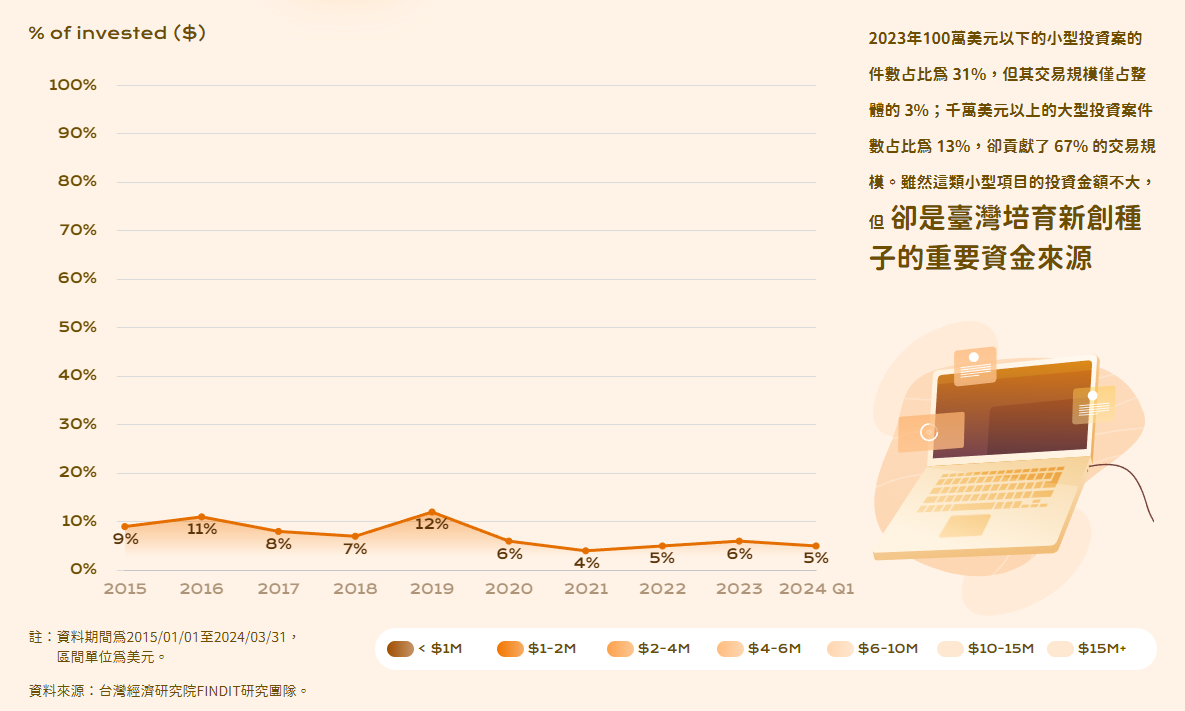
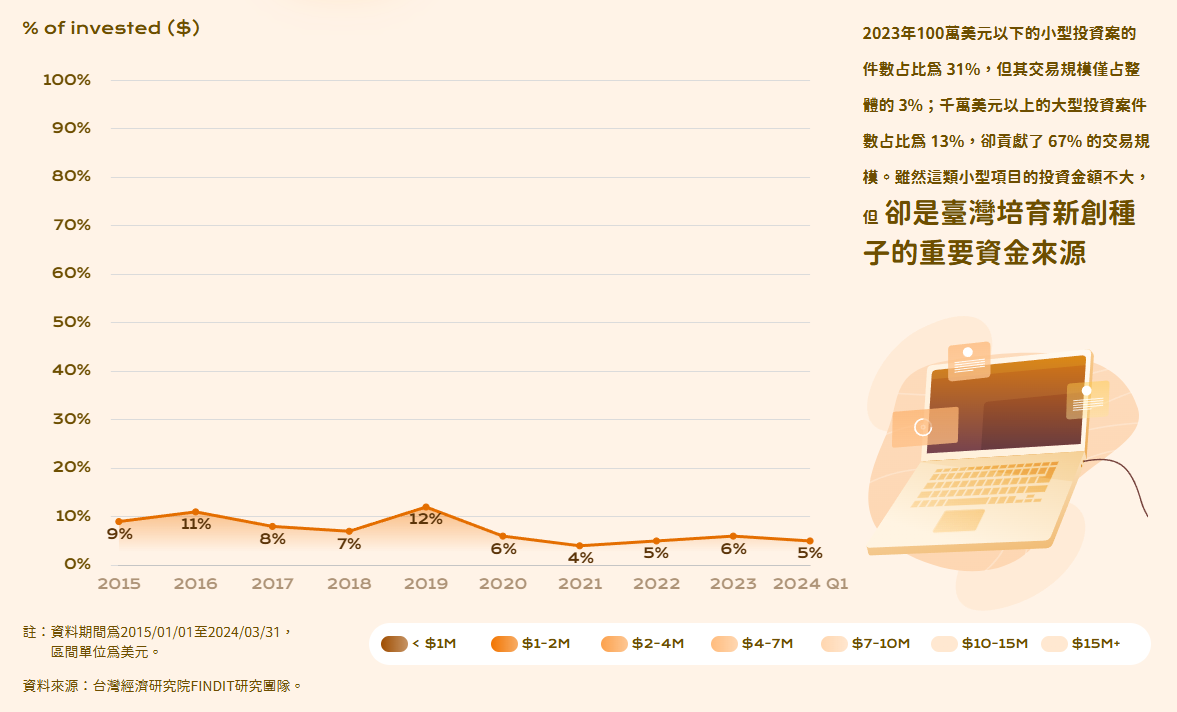
update | 20241029 change chart data, fix bug, update download image

diff --git a/index.html b/index.html
@@ -721,7 +721,7 @@
                   class="text-base font-bold tablet:text-xl"
                   >2022年的平均規模仍高於2020年以前的水準</span
                 > -->
-                2023年平均交易金額未出現增長，雖然較2022年減少2.02%，但仍遠高於2021年水準，減少主要是來自於<span class="text-base font-bold tablet:text-xl"
+                2023年平均交易金額未出現增長，雖然較2022年減少2.02%，但仍遠高於2020年水準，減少主要是來自於<span class="text-base font-bold tablet:text-xl"
                 >中型投資項目的占比增加</span>所致
               </p>
             </div>
@@ -742,7 +742,7 @@
                   >186萬美元</span
                 > -->
                 
-                2023年交易金額中位數為170萬美元，較2022年減少6.08%，但仍遠高於2021年水準。<span class="text-base font-bold tablet:text-xl"
+                2023年交易金額中位數為170萬美元，較2022年減少6.08%，但仍遠高於2020年水準。<span class="text-base font-bold tablet:text-xl"
                 >2024年第一季400萬至1,500萬美元的交易案件數占比增長</span>，進一步導致中位數交易金額上升至245萬美元
 
                 <!-- 2023年交易金額中位數為170萬美元，較2022年減少6.08%，但仍遠高於2021年水準。2024年第一季400萬至1,500萬美元的交易案件數占比增長，進一步導致中位數交易金額上升至245萬美元 -->
@@ -1096,8 +1096,8 @@
                   <button class="dropdown-item">&lt;$1M</button>
                   <button class="dropdown-item">$1-2M</button>
                   <button class="dropdown-item">$2-4M</button>
-                  <button class="dropdown-item">$4-6M</button>
-                  <button class="dropdown-item">$6-10M</button>
+                  <button class="dropdown-item">$4-7M</button>
+                  <button class="dropdown-item">$7-10M</button>
                   <button class="dropdown-item">$10-15M</button>
                   <button class="dropdown-item">$15M+</button>
                 </div>
@@ -1111,8 +1111,8 @@
                 <button>&lt;$1M</button>
                 <button>$1-2M</button>
                 <button>$2-4M</button>
-                <button>$4-6M</button>
-                <button>$6-10M</button>
+                <button>$4-7M</button>
+                <button>$7-10M</button>
                 <button>$10-15M</button>
                 <button>$15M+</button>
               </div>
@@ -1201,7 +1201,7 @@
                   ></div>
                   <span
                     class="w-max tablet:text-xs tablet:scale-100 desktop:text-xs"
-                    >$4-6M</span
+                    >$4-7M</span
                   >
                 </div>
                 <div class="flex items-center gap-1">
@@ -1210,7 +1210,7 @@
                   ></div>
                   <span
                     class="w-max tablet:text-xs tablet:scale-100 desktop:text-xs"
-                    >$6-10M</span
+                    >$7-10M</span
                   >
                 </div>
                 <div class="flex items-center gap-1">
@@ -2170,10 +2170,10 @@
             </strong>
 
             <div
-              class="grid tablet:grid-cols-2 desktop:grid-cols-4 mt-5 text-center gap-3"
+              class="grid tablet:grid-cols-2 desktop:grid-cols-3 mt-5 text-center gap-3"
             >
-              <div class="bg-[#FFD6B0A3] rounded-xl py-2">2305件 (63.9%)</div>
-              <div class="bg-[#FFD6B0A3] rounded-xl py-2">81億美元</div>
+              <div class="bg-[#FFD6B0A3] rounded-xl py-2">2,305件 (63.9%)</div>
+              <!-- <div class="bg-[#FFD6B0A3] rounded-xl py-2">81億美元</div> -->
               <div class="bg-[#FFD6B0A3] rounded-xl py-2">
                 平均交易金額481萬美元
               </div>
@@ -2335,10 +2335,10 @@
             </strong>
 
             <div
-              class="grid tablet:grid-cols-2 desktop:grid-cols-4 mt-5 text-center gap-3"
+              class="grid tablet:grid-cols-2 desktop:grid-cols-3 mt-5 text-center gap-3"
             >
-              <div class="bg-[#FFD6B0A3] rounded-xl py-2">1206件 (35%)</div>
-              <div class="bg-[#FFD6B0A3] rounded-xl py-2">57.5億美元</div>
+              <div class="bg-[#FFD6B0A3] rounded-xl py-2">1,260件 (35.0%)</div>
+              <!-- <div class="bg-[#FFD6B0A3] rounded-xl py-2">57.5億美元</div> -->
               <div class="bg-[#FFD6B0A3] rounded-xl py-2">
                 平均交易金額629萬美元
               </div>
@@ -2500,10 +2500,10 @@
             </strong>
 
             <div
-              class="grid tablet:grid-cols-2 desktop:grid-cols-4 mt-5 text-center gap-3"
+              class="grid tablet:grid-cols-2 desktop:grid-cols-3 mt-5 text-center gap-3"
             >
               <div class="bg-[#FFD6B0A3] rounded-xl py-2">476件 (13.2%)</div>
-              <div class="bg-[#FFD6B0A3] rounded-xl py-2">11.3億美元</div>
+              <!-- <div class="bg-[#FFD6B0A3] rounded-xl py-2">11.3億美元</div> -->
               <div class="bg-[#FFD6B0A3] rounded-xl py-2">
                 平均交易金額289萬美元
               </div>
@@ -2667,10 +2667,10 @@
             </strong>
 
             <div
-              class="grid tablet:grid-cols-2 desktop:grid-cols-4 mt-5 text-center gap-3"
+              class="grid tablet:grid-cols-2 desktop:grid-cols-3 mt-5 text-center gap-3"
             >
-              <div class="bg-[#FFD6B0A3] rounded-xl py-2">396件 (11%)</div>
-              <div class="bg-[#FFD6B0A3] rounded-xl py-2">37.2億美元</div>
+              <div class="bg-[#FFD6B0A3] rounded-xl py-2">396件 (11.0%)</div>
+              <!-- <div class="bg-[#FFD6B0A3] rounded-xl py-2">37.2億美元</div> -->
               <div class="bg-[#FFD6B0A3] rounded-xl py-2">
                 平均交易金額1,307萬美元
               </div>

diff --git a/src/js/chart/chart07_05.js b/src/js/chart/chart07_05.js
@@ -15,12 +15,12 @@ export default () =>
                 {
                     axis: "y",
                     label: 'Amount($M USD)',
-                    data: [276, 610, 491, 240].map((x) => x * (80 / 5) / 100),
+                    data: [276, 610, 491, 240].map((x) => x / 10),
                     backgroundColor: orangeGradient(ctx),
                     datalabels: {
                         color: '#6D4E00',
                         formatter: (value) => {
-                            return formatNumber(value / (80 / 5) * 100, {rounding: true})
+                            return formatNumber(value * 10, {rounding: true})
                         }
                     },
                 },
@@ -57,14 +57,24 @@ export default () =>
                     ticks: {
                         callback: function (value) {
                             if (Math.sign(value) > 0) {
-                                return formatNumber((value / (80 / 4) * 100))
+                                return value * 10
                             }
                             return Math.abs(value)
                         },
                     },
                     min: -80,
-                    max: 100,
+                    max: 80,
                     stacked: true,
+                    afterBuildTicks: (axis) => {
+                        // axis.ticks = [
+                            // { value: -500, label: '500' },
+                            // { value: -250, label: '250' },
+                            // { value: 0, label: '0' },
+                            // { value: 200, label: '1250' },
+                            // { value: 400, label: '2500' },
+                            // { value: 600, label: '3750' },
+                        // ];
+                    }
                 },
                 y: {
                     ticks: {

diff --git a/src/js/chart/chart07_02.js b/src/js/chart/chart07_02.js
@@ -29,7 +29,8 @@ export default () =>
                     backgroundColor: blueGradient(ctx),
                     datalabels: {
                         color: '#fff',
-                        formatter: Math.abs
+                        // formatter: Math.abs
+                        formatter: (value) => Math.abs(value)
                     },
                 }
             ],
@@ -52,15 +53,27 @@ export default () =>
                 x: {
                     ticks: {
                         callback: function (value) {
+                            console.log("🚀 ~ value:", value)
                             if (Math.sign(value) > 0) {
-                                return formatNumber(value / (4 / 25))
+                                return formatNumber(value)
                             }
                             return Math.abs(value)
                         },
                     },
-                    min: -500,
-                    max: 600,
+                    min: -500, // 設定最小值
+                    max: 600, // 設定最大值
                     stacked: true,
+                    afterBuildTicks: (axis) => {
+                        axis.ticks = [
+                            { value: -500, label: '500' },
+                            { value: -250, label: '250' },
+                            { value: 0, label: '0' },
+                            { value: 200, label: '1250' },
+                            { value: 400, label: '2500' },
+                            { value: 600, label: '3750' },
+                        ];
+                    },
+
                 },
                 y: {
                     ticks: {

diff --git a/src/js/chart/chart02.js b/src/js/chart/chart02.js
@@ -38,7 +38,7 @@ export default () => {
       datasets: [
         {
           type: "bar",
-          data: [3.41, 2.34, 3.44, 3.39, "2.04", 3.62, 3.62, 5.65, 5.54, 5.51],
+          data: [3.41, 2.34, 3.44, 3.39, "2.04", 3.62, 6.74, 5.65, 5.54, 5.51],
           backgroundColor:  (context) => context.dataIndex >= 8 ? orangeGradientHighlight2(ctx) : yellowGradient(ctx),
           datalabels: {
             align: "top",
@@ -48,7 +48,7 @@ export default () => {
         },
         {
           type: "bar",
-          data: [1.12, 0.94, 0.95, 1.16, 0.82, "1.00", "1.00", 1.81, "1.70", 2.45],
+          data: [1.12, 0.94, 0.95, 1.16, 0.82, "1.00", "1.08", 1.81, "1.70", 2.45],
           backgroundColor:  (context) => context.dataIndex >= 8 ? orangeGradientHighlight3(ctx) : orangeGradient(ctx),
           datalabels: {
             align: "top",
@@ -83,7 +83,7 @@ export default () => {
             },
           },
           min: 0,
-          max: 6,
+          max: 8,
           beginAtZero: true,
         },
         x: {
@@ -104,6 +104,11 @@ export default () => {
           interaction:{
             intersect: false,
             mode: "index",
+          },
+          callbacks: {
+            label: function (context) {
+              return context.raw;
+            },
           },
         },
       },

diff --git a/src/js/chart/chart07_03.js b/src/js/chart/chart07_03.js
@@ -15,7 +15,7 @@ export default () =>
                 {
                     axis: "y",
                     label: 'Amount($M USD)',
-                    data: [1920, 812, 416, 289, 164].map((x) => x / 15 * 3),
+                    data: [1920, 812, 416, 289, 164.9].map((x) => x / 15 * 3), // 最後一個數值這樣寫是為了讓他跑出 164
                     backgroundColor: orangeGradient(ctx),
                     datalabels: {
                         color: '#6D4E00',

diff --git a/src/js/chart/chart04.js b/src/js/chart/chart04.js
@@ -128,7 +128,7 @@ const data = [
   [44, 49, 49, 41, 53, 44, 29, 31, 31, 27],
   [20, 16, 19, 15, 17, 15, 17, 17, 21, 17],
   [14, 12, 12, 15, 12, 12, 12, 14, 16, 16],
-  [8,   9,  6,  8,  2,  7, 10,  9,  9, 17],
+  [8,   9,  6,  8,  6,  7, 10,  9,  9, 17],
   [4,   3,  2,  4,  2,  2,  7,  5,  3,  8],
   [1,   2,  2,  4,  2,  3,  5,  5,  5,  7],
   [3,   2,  3,  4,  1,  6,  9,  9,  8,  5],

diff --git a/src/js/chart/chart01.js b/src/js/chart/chart01.js
@@ -159,6 +159,11 @@ export default () => {
             mode: "index",
 
           },
+          filter: function (tooltipItem) {
+            // 只顯示 datasetIndex 0 和 2 的資料 (忽略 datasetIndex 1), 且顯示 datasetIndex 1 的最後一的欄位
+            return tooltipItem.datasetIndex !== 1 || tooltipItem.dataIndex === 9;
+          },
+    
         },
       },
 
